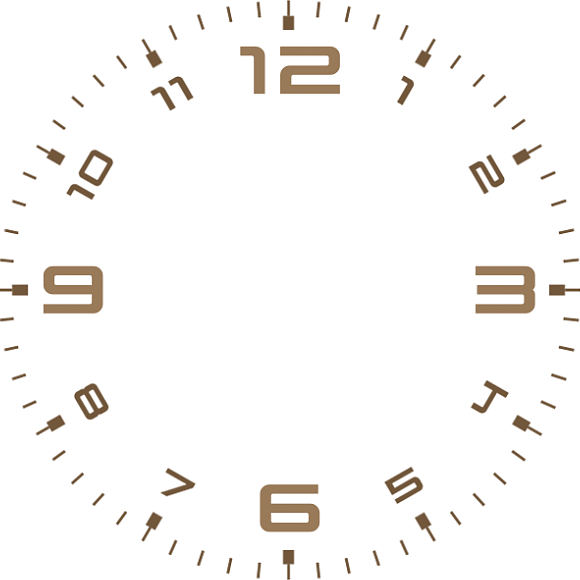
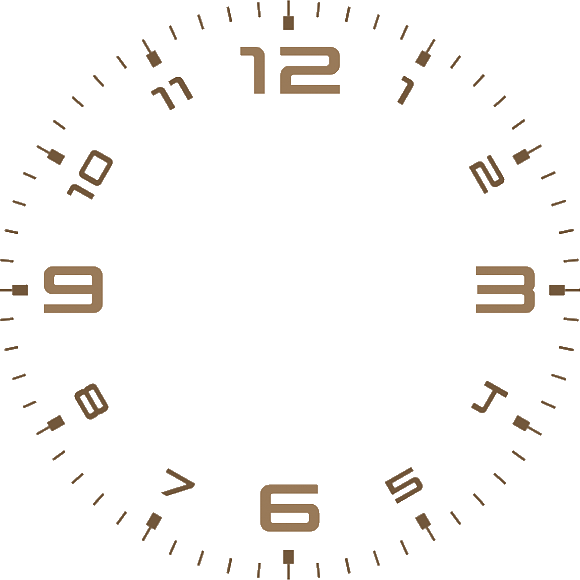
Transparent clock with configurable face color.

Changed region(s): [[0.4345, 0.1241, 0.4655, 0.1552]]

diff --git a/XamlBrewer.Uwp.Composition.ClockSample/Controls/Clock.xaml b/XamlBrewer.Uwp.Composition.ClockSample/Controls/Clock.xaml
@@ -10,14 +10,14 @@
 
     <Viewbox Stretch="Uniform">
         <Canvas x:Name="Container"
-                Background="White"
+                Background="Transparent"
                 Height="200"
                 Width="200">
-            <!--<Ellipse Height="10"
-                     Width="10"
-                     Fill="Red"
-                     Canvas.Left="95"
-                     Canvas.Top="95" />-->
+            <Ellipse x:Name="Face"
+                     Height="200"
+                     Width="200"
+                     Canvas.Left="0"
+                     Canvas.Top="0" />
         </Canvas>
     </Viewbox>
 </UserControl>

diff --git a/XamlBrewer.Uwp.Composition.ClockSample/Views/MainPage.xaml b/XamlBrewer.Uwp.Composition.ClockSample/Views/MainPage.xaml
@@ -23,6 +23,7 @@
                         Grid.Row="1"
                         ShowTicks="False"
                         BackgroundImage="ms-appx:///Assets/modern_face.png"
+                        FaceColor="LightGoldenrodYellow"
                         Margin="20" />
 
         <!-- Responsive Visual States -->

diff --git a/XamlBrewer.Uwp.Composition.ClockSample/Controls/Clock.xaml.cs b/XamlBrewer.Uwp.Composition.ClockSample/Controls/Clock.xaml.cs
@@ -32,11 +32,14 @@ namespace XamlBrewer.Uwp.Controls
             _timer.Tick += Timer_Tick;
         }
 
+        public Brush FaceColor { get; set; } = new SolidColorBrush(Colors.Transparent);
         public bool ShowTicks { get; set; } = true;
         public ImageSource BackgroundImage { get; set; }
 
         private void Clock_Loaded(object sender, RoutedEventArgs e)
         {
+            Face.Fill = FaceColor;
+
             _root = Container.GetVisual();
             _compositor = _root.Compositor;
 
